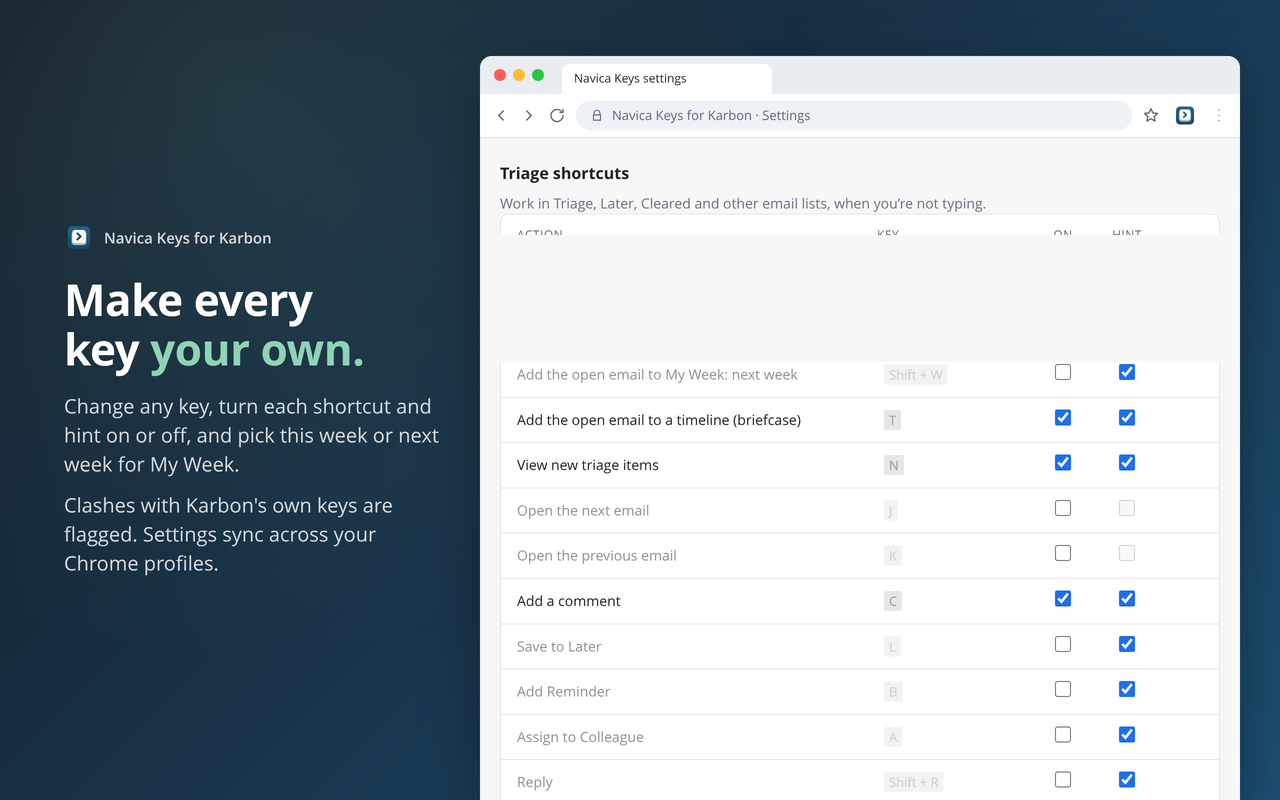
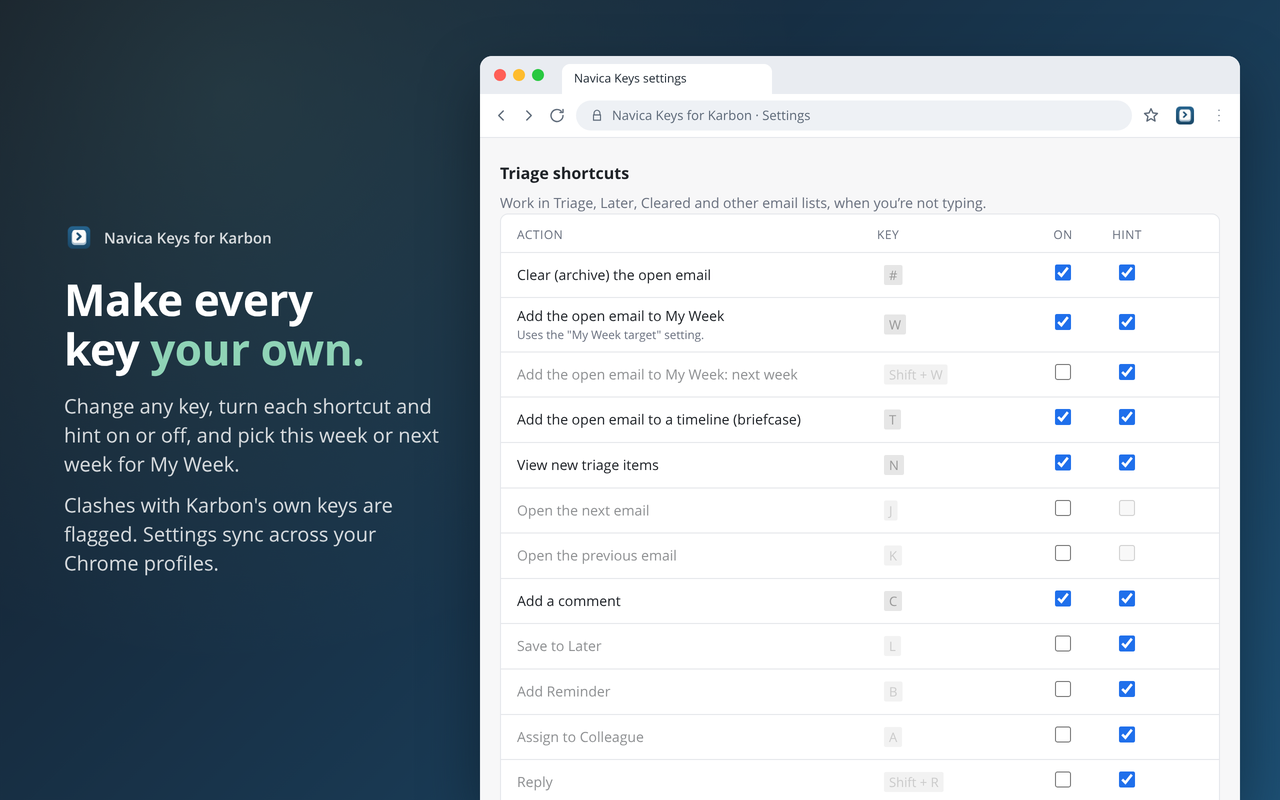
Fix the timeline and settings store screenshots
Stop the dialog tab style from stretching the key chips, show only
single-key chips in the timeline shot, and shift the settings page
instead of scrolling it so headless Chrome paints the whole table.

diff --git a/store/screenshots/frame.js b/store/screenshots/frame.js
@@ -16,10 +16,11 @@ const I = {
   comment: 'M21 12a8 8 0 0 1-11.6 7.1L4 20l1-4.6A8 8 0 1 1 21 12z',
 };
 
-// Settings for a shot: the defaults, with extra shortcuts turned on by id.
-function shotSettings(on = []) {
+// Settings for a shot: the defaults, with extra shortcuts turned on (data-on) or hints hidden (data-off) by id.
+function shotSettings(on = [], off = []) {
   const s = structuredClone(DEFAULTS);
   for (const id of on) s.shortcuts[id].enabled = true;
+  for (const id of off) s.shortcuts[id].hint = false;
   return s;
 }
 const chipText = (s, id) => formatBinding(s.shortcuts[id].binding);
@@ -91,7 +92,8 @@ async function build() {
   document.head.prepend(style);
   for (const b of document.querySelectorAll('.browser')) {
     const d = b.dataset;
-    const s = shotSettings((d.on || '').split(' ').filter(Boolean));
+    const ids = (v) => (v || '').split(' ').filter(Boolean);
+    const s = shotSettings(ids(d.on), ids(d.off));
     const scene = d.scene === 'triage' ? triage(s) + (d.overlay === 'help' ? helpOverlay(s) : d.overlay === 'dialog' ? timelineDialog(s) : '') : '';
     const extra = b.innerHTML;
     b.innerHTML = `
@@ -102,11 +104,12 @@ async function build() {
         <div class="ext"><img src="${ICON}" alt=""></div>${svg('M12 5h.01M12 12h.01M12 19h.01')}</div>
       <div class="viewport">${scene}${extra}</div>`;
   }
-  // The settings shot can start scrolled to a section: <iframe data-scroll-to="#groups">.
+  // The settings shot can start at a section: <iframe data-scroll-to="#groups">. It shifts the page
+  // up rather than scrolling, since headless Chrome leaves part of a scrolled iframe unpainted.
   for (const f of document.querySelectorAll('iframe[data-scroll-to]')) {
     f.addEventListener('load', () => setTimeout(() => {
       const el = f.contentDocument.querySelector(f.dataset.scrollTo);
-      if (el) f.contentWindow.scrollTo(0, el.getBoundingClientRect().top + f.contentWindow.scrollY - 24);
+      if (el) f.contentDocument.body.style.marginTop = `${-(el.getBoundingClientRect().top - 24)}px`;
     }, 400));
   }
 }

diff --git a/store/screenshots/shots.css b/store/screenshots/shots.css
@@ -79,8 +79,8 @@ body { position:relative; font:16px/1.45 system-ui, -apple-system, "Segoe UI", s
 .dialog { width:480px; background:#fff; border-radius:6px; box-shadow:0 12px 40px rgba(0,0,0,.25); font-size:14px; }
 .dialog h3 { margin:0; padding:18px 22px 12px; font-size:18px; }
 .dtabs { display:flex; gap:22px; padding:0 22px; border-bottom:1px solid var(--line); }
-.dtabs span { padding:8px 0; color:var(--muted); display:inline-flex; align-items:center; }
-.dtabs span.on { color:var(--fg); font-weight:600; box-shadow:inset 0 -2px var(--accent); }
+.dtabs > span { padding:8px 0; color:var(--muted); display:inline-flex; align-items:center; }
+.dtabs > span.on { color:var(--fg); font-weight:600; box-shadow:inset 0 -2px var(--accent); }
 .dbody { padding:16px 22px; }
 .search { border:1px solid var(--accent); border-radius:6px; padding:8px 10px; box-shadow:0 0 0 3px rgba(47,111,214,.15); margin-bottom:10px; }
 .search::after { content:""; display:inline-block; width:1px; height:15px; background:var(--fg); vertical-align:-2px; margin-left:1px; }

diff --git a/store/screenshots/shot3-timeline.html b/store/screenshots/shot3-timeline.html
@@ -8,10 +8,9 @@
 <body>
 <div class="copy"><div class="eyebrow"><img src="../icons/icon128.png" alt="">Navica Keys for Karbon</div>
   <h1>File emails to work <mark>in a few keystrokes.</mark></h1>
-  <p>T opens Add to Timeline with the search ready. Type, then press Ctrl + Enter to add.</p>
-  <p>Alt + Shift + W and Alt + Shift + C switch between Work and Contact, even while you type.</p>
+  <p>Press T to open Add to Timeline with the search ready. Type a client or work name and add it without reaching for the mouse.</p>
 </div>
-<div class="browser" data-tab="Triage" data-url="app2.karbonhq.com/northwind-cpa/triage" data-scene="triage" data-overlay="dialog"></div>
+<div class="browser" data-tab="Triage" data-url="app2.karbonhq.com/northwind-cpa/triage" data-scene="triage" data-overlay="dialog" data-off="workTab contactTab dialogAdd"></div>
 <script src="../src/shared.js"></script>
 <script src="frame.js"></script>
 </body>
